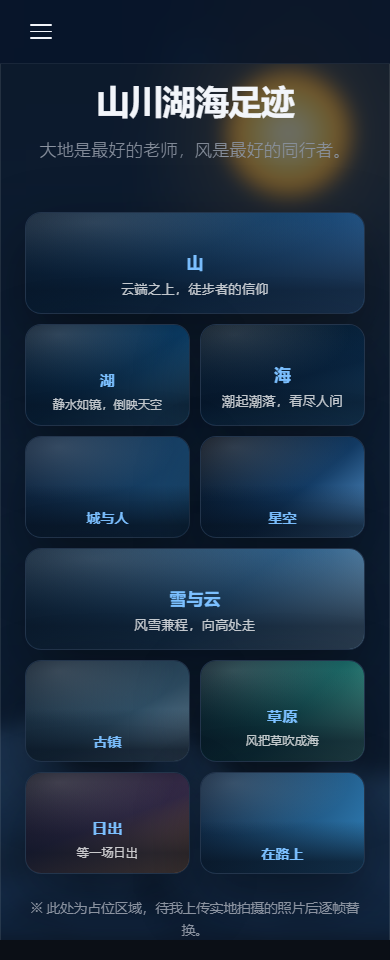
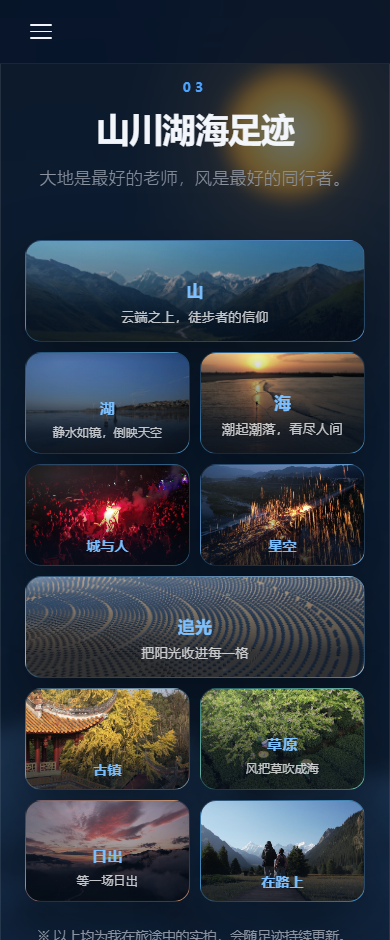
v2: 足迹接入10张实拍照片，动画更慢更从容、错峰更明显
- 新增 v2-web/assets/journey/ 十张实拍（长边1400/JPEG q82，共2.5MB），渐变占位换为 <img> + object-fit/object-position
- 每张卡片独立裁切重心 --pos（m7 调至 68% 露出古镇飞檐）；柔光 ::after 上移到 .ms-tile，caption 加 z-index
- m6 文案「雪与云」改「追光 · 把阳光收进每一格」；m4 换新图（民俗巡游人海）并连锁重排，原文案图移至 m10
- 动画节奏：STEP 0.055->0.10s，归位 1.15->1.6s，is-done 收尾定时 +1420->+1870
- 复验：三视口几何自检无空洞、控制台零错误、截图重出
- 文档：v2-progress-report 增「第三次追加迭代」，project-continuity 更新文件树/环境/快照/待办

diff --git a/v2-web/v2-index.html b/v2-web/v2-index.html
@@ -383,47 +383,47 @@
       <!-- 苹果发布会式拼图：10 张卡片从四周涌入，归位后拼成一个完整矩形 -->
       <div class="journey-mosaic" data-mosaic>
         <figure class="ms-tile ms-tile--m1 ms-tile--lg ms-tile--big">
-          <div class="ms-tile__media ph"></div>
+          <img class="ms-tile__media" src="assets/journey/01-shan.jpg" alt="雪山与草甸山谷" loading="lazy" decoding="async">
           <figcaption class="ms-tile__cap"><b>山</b><span>云端之上，徒步者的信仰</span></figcaption>
         </figure>
         <figure class="ms-tile ms-tile--m2">
-          <div class="ms-tile__media ph"></div>
+          <img class="ms-tile__media" src="assets/journey/02-hu.jpg" alt="湖面倒影与同行的人" loading="lazy" decoding="async">
           <figcaption class="ms-tile__cap"><b>湖</b><span>静水如镜，倒映天空</span></figcaption>
         </figure>
         <figure class="ms-tile ms-tile--m3 ms-tile--lg">
-          <div class="ms-tile__media ph"></div>
+          <img class="ms-tile__media" src="assets/journey/03-hai.jpg" alt="海边日落与沙滩上的行人" loading="lazy" decoding="async">
           <figcaption class="ms-tile__cap"><b>海</b><span>潮起潮落，看尽人间</span></figcaption>
         </figure>
         <figure class="ms-tile ms-tile--m4 ms-tile--s">
-          <div class="ms-tile__media ph"></div>
+          <img class="ms-tile__media" src="assets/journey/04-cheng-yuren.jpg" alt="夜色里民俗巡游的人海" loading="lazy" decoding="async">
           <figcaption class="ms-tile__cap"><b>城与人</b><span>每一次停留，都是故事</span></figcaption>
         </figure>
         <figure class="ms-tile ms-tile--m5 ms-tile--s">
-          <div class="ms-tile__media ph"></div>
+          <img class="ms-tile__media" src="assets/journey/05-xingkong.jpg" alt="夜空里飞溅的金色星火" loading="lazy" decoding="async">
           <figcaption class="ms-tile__cap"><b>星空</b><span>银河落在头顶</span></figcaption>
         </figure>
         <figure class="ms-tile ms-tile--m6 ms-tile--lg ms-tile--big">
-          <div class="ms-tile__media ph"></div>
-          <figcaption class="ms-tile__cap"><b>雪与云</b><span>风雪兼程，向高处走</span></figcaption>
+          <img class="ms-tile__media" src="assets/journey/06-zhuiguang.jpg" alt="大漠里的光伏阵列，一排排向着太阳" loading="lazy" decoding="async">
+          <figcaption class="ms-tile__cap"><b>追光</b><span>把阳光收进每一格</span></figcaption>
         </figure>
         <figure class="ms-tile ms-tile--m7 ms-tile--s">
-          <div class="ms-tile__media ph"></div>
+          <img class="ms-tile__media" src="assets/journey/07-guzhen.jpg" alt="古亭飞檐与银杏" loading="lazy" decoding="async">
           <figcaption class="ms-tile__cap"><b>古镇</b><span>人间烟火</span></figcaption>
         </figure>
         <figure class="ms-tile ms-tile--m8">
-          <div class="ms-tile__media ph"></div>
+          <img class="ms-tile__media" src="assets/journey/08-caoyuan.jpg" alt="绿色草坡与梯田" loading="lazy" decoding="async">
           <figcaption class="ms-tile__cap"><b>草原</b><span>风把草吹成海</span></figcaption>
         </figure>
         <figure class="ms-tile ms-tile--m9">
-          <div class="ms-tile__media ph"></div>
+          <img class="ms-tile__media" src="assets/journey/09-richu.jpg" alt="云海之上的日出" loading="lazy" decoding="async">
           <figcaption class="ms-tile__cap"><b>日出</b><span>等一场日出</span></figcaption>
         </figure>
         <figure class="ms-tile ms-tile--m10 ms-tile--s">
-          <div class="ms-tile__media ph"></div>
+          <img class="ms-tile__media" src="assets/journey/10-lushang.jpg" alt="走山谷栈道的两位同行者" loading="lazy" decoding="async">
           <figcaption class="ms-tile__cap"><b>在路上</b><span>下一站，未定</span></figcaption>
         </figure>
       </div>
-      <p class="journey-note reveal">※ 此处为占位区域，待我上传实地拍摄的照片后逐帧替换。</p>
+      <p class="journey-note reveal">※ 以上均为我在旅途中的实拍，会随足迹持续更新。</p>
     </section>
 
     <!-- ============ 镜头世界 ============ -->

diff --git a/v2-web/v2-style.css b/v2-web/v2-style.css
@@ -715,9 +715,11 @@ html.shot .word-pen {
   border: 1px solid var(--line);
   box-shadow: var(--shadow-soft);
   background: var(--sky);
-  transition: opacity 0.85s cubic-bezier(0.22, 1, 0.36, 1),
-    transform 1.15s cubic-bezier(0.16, 1, 0.3, 1),
-    filter 0.9s cubic-bezier(0.22, 1, 0.36, 1), box-shadow 0.5s ease;
+  background-size: cover;
+  background-position: center;
+  transition: opacity 0.9s cubic-bezier(0.22, 1, 0.36, 1),
+    transform 1.6s cubic-bezier(0.16, 1, 0.3, 1),
+    filter 0.95s cubic-bezier(0.22, 1, 0.36, 1), box-shadow 0.5s ease;
   transition-delay: var(--d, 0s);
   will-change: transform, opacity;
 }
@@ -801,56 +803,60 @@ html.shot .word-pen {
 }
 
 .ms-tile__media {
+  /* 直接就是 <img class="ms-tile__media" src="assets/journey/xx.jpg"> */
   position: absolute;
   inset: 0;
-  background-size: cover;
-  background-position: center;
-  transition: transform 0.6s cubic-bezier(0.22, 1, 0.36, 1);
-  /* TODO(v2): 替换为真实照片 —— 换成 <img class="ms-tile__media" src="..." alt="..."> */
-}
-.ms-tile__media img {
   display: block;
   width: 100%;
   height: 100%;
   object-fit: cover;
+  object-position: var(--pos, center);
+  transition: transform 0.6s cubic-bezier(0.22, 1, 0.36, 1);
 }
-/* 一点斜上方高光，让占位渐变更接近照片质感 */
-.ms-tile__media::after {
+/* 一点斜上方高光，让照片更通透 */
+.ms-tile::after {
   content: "";
   position: absolute;
   inset: 0;
-  background: radial-gradient(115% 85% at 20% 10%, rgba(255, 255, 255, 0.16), transparent 62%);
+  background: radial-gradient(115% 85% at 20% 10%, rgba(255, 255, 255, 0.14), transparent 62%);
   pointer-events: none;
 }
-/* 占位渐变（每张不同，待真实照片替换） */
-.ms-tile--m1 .ph {
+/* 兜底渐变（万一照片没加载出来，也不会露出空白）—— 同时决定每张照片的裁切重心 */
+.ms-tile--m1 {
   background-image: linear-gradient(155deg, #0a1c30, #12406b 46%, #4a86c8);
 }
-.ms-tile--m2 .ph {
+.ms-tile--m2 {
   background-image: linear-gradient(150deg, #07182b, #0b3b63 52%, #3f8fc4);
 }
-.ms-tile--m3 .ph {
+.ms-tile--m3 {
   background-image: linear-gradient(165deg, #04121f, #0a2f52 55%, #2f7fb8);
 }
-.ms-tile--m4 .ph {
+.ms-tile--m4 {
+  --pos: 50% 45%;
   background-image: linear-gradient(120deg, #0b1f38, #1c4f7a);
 }
-.ms-tile--m5 .ph {
+.ms-tile--m5 {
+  --pos: 50% 45%;
   background-image: linear-gradient(140deg, #040b16, #123a63 58%, #5b9bd5);
 }
-.ms-tile--m6 .ph {
+.ms-tile--m6 {
+  --pos: 50% 42%;
   background-image: linear-gradient(145deg, #0c2136, #2a5c86 55%, #8fb8d8);
 }
-.ms-tile--m7 .ph {
+.ms-tile--m7 {
+  --pos: 50% 68%;
   background-image: linear-gradient(150deg, #0a1929, #2e4d63 58%, #7a9bb3);
 }
-.ms-tile--m8 .ph {
+.ms-tile--m8 {
+  --pos: 50% 45%;
   background-image: linear-gradient(135deg, #081a26, #17605f 55%, #5fb0a0);
 }
-.ms-tile--m9 .ph {
+.ms-tile--m9 {
+  --pos: 50% 45%;
   background-image: linear-gradient(160deg, #10131f, #3c2f4f 50%, #c98a5e);
 }
-.ms-tile--m10 .ph {
+.ms-tile--m10 {
+  --pos: 50% 48%;
   background-image: linear-gradient(120deg, #0b1f38, #2f7fb8);
 }
 
@@ -864,6 +870,7 @@ html.shot .word-pen {
   background: linear-gradient(180deg, rgba(6, 16, 30, 0) 0%, rgba(6, 16, 30, 0.74) 78%);
   color: #fff;
   pointer-events: none;
+  z-index: 2;
 }
 .ms-tile__cap b {
   display: block;

diff --git a/v2-web/v2-script.js b/v2-web/v2-script.js
@@ -440,7 +440,7 @@
   var isShot = /[?&]shot=1/.test(window.location.search);
   var reduce = window.matchMedia("(prefers-reduced-motion: reduce)").matches;
 
-  var STEP = 0.055; /* 每张卡片之间的错峰间隔（秒） */
+  var STEP = 0.10; /* 每张卡片之间的错峰间隔（秒）：更明显的依次登场 */
   var maxDelay = 0;
   var armed = false;
 
@@ -490,7 +490,7 @@
     /* 全部归位后收尾：释放 will-change、切换成悬停微动的过渡 */
     window.setTimeout(function () {
       mosaic.classList.add("is-done");
-    }, maxDelay * 1000 + 1420);
+    }, maxDelay * 1000 + 1870);
   }
 
   /* 截图模式 / 减少动效：直接定格成拼好的矩形，不播放动画 */

diff --git a/docs/project-continuity.md b/docs/project-continuity.md
@@ -65,10 +65,12 @@ artifacts/
 ### v2（已完成：「学业 · 专业」整页板块 + 视差山峦背景 + 足迹拼图）
 ```
 v2-web/
-├── v2-index.html          # 新增 #study 学业板块（导航新增"学业"，序号顺延至联系08）；<main> 前新增 #bgParallax 背景块；足迹板块改为 .journey-mosaic（10 张 .ms-tile）
-├── v2-style.css           # 学业板块样式 + 响应式；.bg-parallax* 背景层 + 磨砂卡片 + 移动端/reduced-motion 降级；.journey-mosaic/.ms-tile* 拼图骨架与入场动效；html.shot
+├── v2-index.html          # 新增 #study 学业板块（导航新增"学业"，序号顺延至联系08）；<main> 前新增 #bgParallax 背景块；足迹板块改为 .journey-mosaic（10 张 .ms-tile，内含 <img class="ms-tile__media"> 真实照片）
+├── v2-style.css           # 学业板块样式 + 响应式；.bg-parallax* 背景层 + 磨砂卡片 + 移动端/reduced-motion 降级；.journey-mosaic/.ms-tile* 拼图骨架与入场动效（.ms-tile__media 即 <img>）；html.shot
 ├── v2-script.js           # 沿用 v1 交互，末尾新增两个独立 IIFE：视差（data-px 位移 + is-parallax-on 淡入）、足迹拼图（四周涌入 + 错峰归位）
 ├── v2-about-data.js       # "About me" 手写 SVG 笔画数据（沿用 v1）
+├── assets/
+│   └── journey/           # ★ 足迹实拍照片（10 张，共 2.5MB）：01-shan / 02-hu / 03-hai / 04-cheng-yuren / 05-xingkong / 06-zhuiguang / 07-guzhen / 08-caoyuan / 09-richu / 10-lushang .jpg
 └── tools/
     └── gen-bg-parallax.py # ★ 山峦脊线生成器：幂等、可复现，改 LAYERS/PALETTE 即可调参
 docs/
@@ -90,9 +92,10 @@ artifacts/
 - 山脊算法：**4～6 个宽主峰 + 11～15 个侧坡碎峰 + 8 阶 value noise**，谷底 `floor` 0.22～0.26 抬升 → 层叠山体而非均匀锯齿。
 - 视差：`start = hero 高度 × 0.75`，进度归一化后按 `data-px` 做 `translate3d`，rAF 节流、只改 transform。
 - 可读性：内容卡 `.section--tinted` 改半透明 `rgba(16,29,48,.62)` + `backdrop-filter: blur(10px) saturate(120%)`。
-- **足迹拼图**：`.journey-mosaic` 用 `grid-template-columns: repeat(12,1fr)` + `grid-auto-rows: var(--row)` 搭 **12×6 骨架**，10 张 `.ms-tile`（`--m1`～`--m10`，`--lg` 大字 / `--s` 只留标题 / `--big` 移动端通栏）用 `grid-area` **恰好铺满**；入场由 JS 按每张卡片相对中心的向量算出 `--dx/--dy/--sc`（四周涌入）+ 角度排序的 `--d` 错峰延迟，`cubic-bezier(.16,1,.3,1)` 1.15s 归位；手机端 760px 以下换 6 列骨架（`span 3` / `--big` 为 `span 6`）。
+- **足迹拼图**：`.journey-mosaic` 用 `grid-template-columns: repeat(12,1fr)` + `grid-auto-rows: var(--row)` 搭 **12×6 骨架**，10 张 `.ms-tile`（`--m1`～`--m10`，`--lg` 大字 / `--s` 只留标题 / `--big` 移动端通栏）用 `grid-area` **恰好铺满**；入场由 JS 按每张卡片相对中心的向量算出 `--dx/--dy/--sc`（四周涌入）+ 角度排序的 `--d` 错峰延迟（`STEP = 0.10s`），`cubic-bezier(.16,1,.3,1)` **1.6s** 归位；手机端 760px 以下换 6 列骨架（`span 3` / `--big` 为 `span 6`）。
+  - 每张卡已接入**真实照片**：媒体元素即 `<img class="ms-tile__media" src="assets/journey/…" alt="…" loading="lazy" decoding="async">`，`object-fit: cover` + 每张独立 `object-position: var(--pos)`（由 `.ms-tile--mN` 承载，兼作加载失败兜底底色）；`::after` 柔光挂在 `.ms-tile` 上，`.ms-tile__cap` 有 `z-index: 2`。
   - 拼图**几何自检**：`.deepworks/tmp/check-mosaic.html` 在 iframe 中按 `?cols/rows` 还原骨架，断言「外框齐边 + 每单元中心命中且仅命中一张 + 尺寸为整数单元 + 逐行带/列带首尾贴合」；1366 / 900 / 390 三视口全部通过（无空洞、无重叠）。
-- 迭代过程见 `docs/v2-progress-report.md` 的两个「追加迭代」章节（山峦 r5→r6→r8→r9 四轮；足迹拼图为一次性需求，用户反馈驱动）。
+- 迭代过程见 `docs/v2-progress-report.md` 的**三个**「追加迭代」章节（山峦 r5→r6→r8→r9 四轮；足迹拼图；接入真实照片 + 动画节奏打磨）。
 
 ## 6. 技术栈与运行方式
 - **纯静态前端**：`HTML + CSS + JS`，无框架、无构建、无 node 依赖，双击 `v2-index.html` 或起本地 HTTP 服务即可预览。
@@ -102,24 +105,33 @@ artifacts/
   该参数还会**强制打开视差背景**（`body.is-parallax-on`）、并让**足迹拼图跳过动画直接定格成拼好的矩形**，便于静态截图取证。
 - **山峦背景调参**：改 `v2-web/tools/gen-bg-parallax.py` 里的 `LAYERS`（峰数/宽窄/高度/噪声/谷底）与 `PALETTE`（配色），
   然后 `python v2-web/tools/gen-bg-parallax.py` 重新生成 `v2-index.html` 中的 `#bgParallax` 块（幂等，可反复运行）。
-- **环境注意**：本机 **`node` 不可用**；`python` 可用（3.14.3）。截图用系统 Edge 无头模式
-  （`C:\Program Files (x86)\Microsoft\Edge\Application\msedge.exe`）。
+- **照片素材再生成**（幂等）：足迹照片由 `.deepworks/tmp/resize-photos.ps1` 批量缩放生成到 `v2-web/assets/journey/`；
+  改映射只改脚本里的 `$map`，然后 `powershell -ExecutionPolicy Bypass -File .deepworks\tmp\resize-photos.ps1`。
+  规则：长边 1400px、`HighQualityBicubic`、JPEG 质量 82、读 EXIF `0x0112` 手动旋转。
+- **环境注意**：本机 **`node` 不可用**；`python` 可用（3.14.3）但**没有 `PIL`/Pillow** → 图像处理一律走 PowerShell `System.Drawing`。
+  ⚠ **PowerShell 5.1 按 ANSI 读取 `.ps1`**：脚本里写中文会乱码报错，**只用 ASCII 注释**。
+  截图用系统 Edge 无头模式（`C:\Program Files (x86)\Microsoft\Edge\Application\msedge.exe`）。
+- **Edge 无头截图三坑**（否则会拿到"假的成功截图"）：① 同一 `--user-data-dir` 会命中缓存 → **每次换唯一 profile**；
+  ② 截图**异步写盘**，进程退出时文件可能还是旧的 → **先删目标文件再轮询等新文件**；③ `Start-Process -ArgumentList` 不给含空格路径加引号 → 直接用 `& $edge … --screenshot="$out"`。
+  取证外壳 `.deepworks/tmp/shot.html` 会**先把 10 张足迹照片预热进 HTTP 缓存**再挂 iframe（`?preload=0` 关闭），避免拍到未解码的空块。
 
 ## 6.5 版本进展快照
 - **v1**：完成 MVP 主页（响应式 + 智能体预留位 + 多功能块）。
-- **v2**（2026-09-10 完成，同日三轮）：
+- **v2**（2026-09-10 完成，同日四轮）：
   1. 新增「学业 · 专业」整页板块（专业名片 / 核心课程 / 学习日常），导航新增"学业"锚点，原板块序号顺延；
   2. 追加首屏之后淡入的「太阳 + 分层细节山峦」**视差背景**（3 层 × 3 条脊线 + 日照金边），内容卡改半透明磨砂；
      移动端与 `prefers-reduced-motion` 降级；山峦由幂等脚本参数化生成；并把「学习日常」改写为**劳逸结合**；
-  3. 足迹板块改为**「苹果发布会式拼图」**：10 张不等尺寸圆角卡片用 12×6 Grid 恰好铺满，滚动到位后按各自方向**从四周涌入**、错峰归位拼成完整矩形（手机端 6 列骨架）。
-  桌面 / 移动 / 移动菜单 / 视差 / 足迹拼图多视图截图 + 拼图几何自检（三视口无空洞）验证通过；已 git 存档（tag `v2`）。
+  3. 足迹板块改为**「苹果发布会式拼图」**：10 张不等尺寸圆角卡片用 12×6 Grid 恰好铺满，滚动到位后按各自方向**从四周涌入**、错峰归位拼成完整矩形（手机端 6 列骨架）；
+  4. 足迹接入**10 张用户实拍照片**（`v2-web/assets/journey/`，2.5MB）：渐变占位 → `<img>` + 逐张 `object-position` 裁切重心；
+     m6 文案改**「追光」**、m4 换新图（民俗巡游人海）并连锁重排（原文案图移到 m10）；动画按反馈调为**更慢更从容**（`STEP 0.10s`、归位 1.6s）。
+  桌面 / 移动 / 移动菜单 / 视差 / 足迹拼图多视图截图 + 拼图几何自检（三视口无空洞）+ 控制台零错误验证通过；已 git 存档（tag `v2`）。
 - **下一版（文件版本 v3 = 课程 V3）**：接入 Supabase Dashboard + Feedback（意见反馈后台）。
-- **其它待办**：上传真实照片（首屏背景 + 足迹卡片占位图）、接入真实社交媒体链接。
+- **其它待办**：首屏主背景换成实拍照片、接入真实社交媒体链接。
 
 ## 7. 待办 / 下一步
-1. **[高] 上传真实照片**：用户将提供自己拍摄的山川湖海照片。
-   - 替换位置：`v2-web/v2-index.html` 中 `hero__bg` 背景 + 足迹拼图卡片的 `.ms-tile__media`（占位图，10 张）。
-   - 建议放入 `v2-web/assets/`（新建），并更新 CSS 中标注的 `TODO(v2)`；`.ms-tile__media` 换成 `<img class="ms-tile__media" src="..." alt="...">` 即可，`object-fit: cover` 已写好。
+1. **[已完成] 足迹照片**：10 张实拍已接入 `v2-web/assets/journey/`（见 §5）。源图在项目根 `照片展示/`（12 张，约 78MB，**勿提交**）。
+   - 换图/调裁切：改 `.deepworks/tmp/resize-photos.ps1` 的 `$map` 重新生成，再调 `v2-style.css` 里对应 `.ms-tile--mN` 的 `--pos`。
+   - **仍待办**：首屏 `hero` 主背景仍是渐变/风格化背景，尚未换成实拍照片。
 2. 接入真实社交媒体链接（抖音 / B站 / 视频号，同名「不会飞的jiang」）替换占位跳转。
 3. **智能体接入**：把 `#agent` 预留区变成真实可交互的 AI 助手（课程 V4）。
 4. **Git 存档点（后悔药）**：仓库已在项目根初始化（`git init`，分支 `master`），已有 tag `v1` / `v2`。

diff --git a/docs/v2-progress-report.md b/docs/v2-progress-report.md
@@ -226,3 +226,81 @@ artifacts/
 
 ### 🚧 遗留
 - 仍为**渐变占位图**（`.ph`），结构已预留 `TODO(v2)`：把 `.ms-tile__media` 换成 `<img src="...">` 即可无缝替换为真实照片（样式已写好 `object-fit: cover`）。
+  → 已在**第三次追加迭代**中完成（见下节）。
+
+---
+
+## v2 · 追加迭代（同日·第三次）：足迹接入真实照片 + 动画节奏打磨
+
+### 🎯 需求来源
+> 用户把 11 张实拍照片放进项目根目录 `照片展示/`，说*「足迹这里的图片可以用我提供的」*；
+> 并对上一轮动画反馈：*「感觉图片移动的速度可以再慢一点，然后更多一点错落感」*。
+
+拆成两件事：① 把 10 张渐变占位换成**真实照片**；② 动画**更慢更从容 + 错峰更明显**。
+
+### 🖼 素材流水线（无 PIL，纯 PowerShell）
+- 本机 **没有 `PIL`/Pillow**、`node` 也不可用 → 缩图改用 **`System.Drawing`（.NET）**：`.deepworks/tmp/resize-photos.ps1`。
+- 处理规则：长边压到 **1400px**、等比缩放、`HighQualityBicubic`、JPEG **质量 82**、白底填充、**读 EXIF `PropertyId 0x0112` 手动旋转**
+  （浏览器会自动按 EXIF 转、`System.Drawing` 不会 → 不处理会歪；本次 10 张 orient 全为 1）。
+- ⚠ **PowerShell 5.1 按 ANSI 读脚本**：`.ps1` 里写中文（无 BOM）会乱码并报 `InvalidLeftHandSide` → **脚本内只用 ASCII 注释**。
+- 输出到 `v2-web/assets/journey/`，10 张共 **2.5MB**（单张 95KB～635KB），全部 HTTP `HEAD` 校验 **200**。
+
+### 📷 照片 → 卡片映射
+| 文件 | 来源 | 内容 | 卡片 | 文案 |
+| :--- | :---: | --- | :---: | --- |
+| `01-shan.jpg` | p04 | 雪山与徒步者 | m1 | 山 · 云端之上，徒步者的信仰 |
+| `02-hu.jpg` | p02 | 湖面倒影 | m2 | 湖 · 静水如镜，倒映天空 |
+| `03-hai.jpg` | p10 | 海边日落 | m3 | 海 · 潮起潮落，看尽人间 |
+| `04-cheng-yuren.jpg` | ★ p12（用户后补） | 夜色里民俗巡游的人海 | m4 | 城与人 · 每一次停留，都是故事 |
+| `05-xingkong.jpg` | p08 | 打铁花夜景 | m5 | 星空 · 银河落在头顶 |
+| `06-zhuiguang.jpg` | p07 | 大漠光伏阵列 | m6 | **追光 · 把阳光收进每一格** |
+| `07-guzhen.jpg` | p03 | 亭台飞檐 + 银杏 | m7 | 古镇 · 人间烟火 |
+| `08-caoyuan.jpg` | p01 | 绿色草坡 | m8 | 草原 · 风把草吹成海 |
+| `09-richu.jpg` | p09 | 云海粉紫日出 | m9 | 日出 · 等一场日出 |
+| `10-lushang.jpg` | p05 | 山谷栈道的两位同行者 | m10 | 在路上 · 下一站，未定 |
+
+- **去重发现**：源目录 p04 与 p06 **字节完全相同**（MD5 `3EA572317B11…`，2,505,508 B）→ 原 11 张里只有 10 张唯一。
+- **打铁花重复的处理**：原本 m5、m11 都是打铁花 → 用户选择「其中一张换成别的照片」并补进第 12 张（民俗巡游人海）→
+  用**连锁重排**消化：新图进 m4「城与人」、原 m4 的两位同行者移到 m10「在路上」、原 p11（打铁花河面倒影）**弃用** → 打铁花在 m5 只出现一次。
+- **文案微调**：m6 原「雪与云 · 风雪兼程，向高处走」与照片（光伏阵列）不符 → 用户选择保留此图并改文案为 **「追光 · 把阳光收进每一格」**；
+  `06-xue-yun.jpg` 相应改名 `06-zhuiguang.jpg`。
+
+### 🧱 HTML / CSS 改造（占位 → 真实照片）
+- `v2-index.html`：10 个 `<div class="ms-tile__media ph">` → `<img class="ms-tile__media" src="assets/journey/xx.jpg" alt="…" loading="lazy" decoding="async">`；
+  `alt` 写实际内容（如 m4「夜色里民俗巡游的人海」、m10「走山谷栈道的两位同行者」）。
+- `v2-style.css`：
+  - `.ms-tile__media` **本身就是 `<img>`**（`position:absolute; inset:0; width/height:100%; object-fit:cover; object-position: var(--pos, center)`）；删掉 `TODO(v2)` 与给内层 `img` 的规则。
+  - 柔光 `::after` 从 `.ms-tile__media` **上移到 `.ms-tile`**（图片换 `<img>` 后 `::after` 会盖不到内容）；`.ms-tile__cap` 加 `z-index: 2`。
+  - 原 10 条 `.ms-tile--mN .ph` 渐变**改挂到 `.ms-tile--mN`** → 既作图片加载失败的兜底底色，又可承载每张的裁切重心 `--pos`。
+  - 每张给独立 `--pos`（裁切重心，避免主体被切）：m4/m5 `50% 45%`、m6 `50% 42%`、m7 **`50% 68%`**、m8/m9 `50% 45%`、m10 **`50% 48%`**，m1～m3 居中。
+    （m7 由 30% 调到 68% 后，古镇的**琉璃瓦飞檐**正好露出。）
+- `.journey-note` 文案改为：*「※ 以上均为我在旅途中的实拍，会随足迹持续更新。」*
+
+### 🎞 动画节奏调整（按用户反馈）
+| 参数 | 旧 | 新 | 效果 |
+| --- | :---: | :---: | --- |
+| 错峰步长 `STEP` | 0.055s | **0.10s** | 涟漪错落更明显 |
+| 归位时长 `transform` | 1.15s | **1.6s** | 更慢更从容（`opacity` 0.9s、`filter` 0.95s） |
+| `is-done` 收尾定时 | `maxDelay*1000+1420` | **`+1870`** | 匹配更长时长，避免提前解除 `will-change` |
+
+> 飞入距离 / 虚化 / 缩放幅度按用户选择**保持不变**，只动"快慢与错峰"。
+
+### ✅ 验证结果
+- **几何自检三视口全通过**（`.deepworks/tmp/check-mosaic.html`）：1366（12×6，盒 1030×562）/ 900（12×6）/ 390（6×12，盒 340×662），
+  均 `flush` 齐边、`uncovered=0`、`overlapped=0`、命中 10/10、分带 0 错 → `PERFECT-RECTANGLE-NO-HOLES`。
+- **控制台零错误**：Edge `--enable-logging=stderr` 跑正常页与 `?shot=1`，无 `Uncaught` / `SyntaxError` / `TypeError` / `net::ERR` / `404`。
+- **图片加载诊断**：`.deepworks/tmp/probe-imgs.html` 逐张断言 `complete=true`、`naturalWidth>0`、`object-position` 生效 → 10/10 正常。
+- **截图重出**：`v2-journey-desktop.png`（10 张实拍拼合完成）、`v2-journey-inflight.png`（动画中段，四周散开带虚化）、
+  `v2-journey-mobile.png`（390 视口 6 列骨架）；桌面端已肉眼核对语义归位、无重复主题、古镇露出飞檐。
+
+### ⚠ 截图踩坑（写给下一位，务必照做）
+- Edge 无头模式**同一 `--user-data-dir` 会命中缓存**，导致新截图与旧图**字节数完全一致**（假成功）。
+- Edge **异步写盘**：进程早已退出、文件可能还是旧的 → 必须**每次换唯一 profile**、**先删目标文件**、`--virtual-time-budget` 给足、再**轮询等文件出现**。
+- `Start-Process -ArgumentList` **不会**给含空格的路径加引号 → 用直接调用 `& $edge ... --screenshot="$out"`。
+- `.deepworks/tmp/shot.html` 外壳已升级：**先用 `new Image()` 把 10 张足迹照片预热进 HTTP 缓存**，再挂载 iframe（`?preload=0` 可关），
+  避免"图还没解码就截图"拍出空块。
+
+### 🚧 遗留
+- 首屏主背景仍为渐变/风格化背景（未换成实拍），社交链接仍为占位跳转。
+- 素材再生成命令（幂等，改映射只改脚本里的 `$map`）：
+  `powershell -ExecutionPolicy Bypass -File .deepworks\tmp\resize-photos.ps1`
